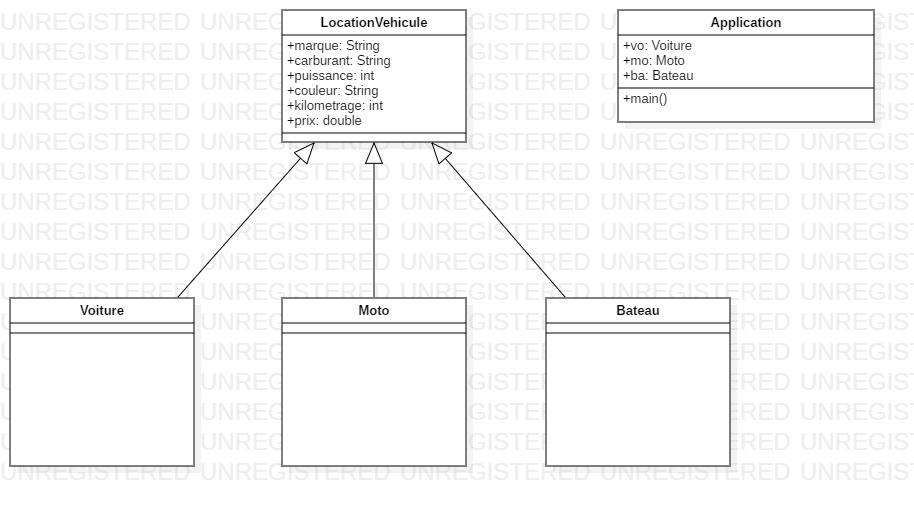
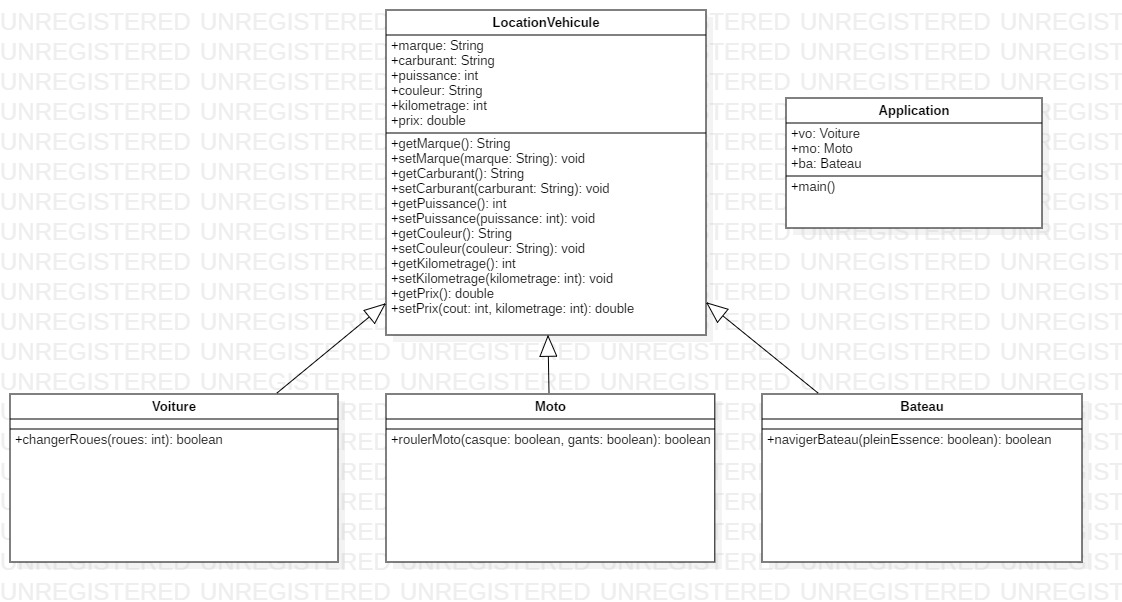
modifs des programmes java

diff --git a/src/Bateau.java b/src/Bateau.java
@@ -1,11 +1,11 @@
 
 public class Bateau extends LocationVehicule
 {
-	LocationVehicule loc = new LocationVehicule();
-
-    public double setMarque(double cout, int kilometrage)
-    {
-    	double prix = cout * kilometrage;
-    	return prix;
-    }
+	public boolean naviguerBateau(boolean pleinEssence)
+	{
+		if (pleinEssence)
+			return true;
+		
+		return false;
+	}
 }

diff --git a/src/Moto.java b/src/Moto.java
@@ -1,11 +1,11 @@
 
 public class Moto extends LocationVehicule 
 {
-	LocationVehicule loc = new LocationVehicule();
-	
-	public double setMarque(double cout, int kilometrage)
+	public boolean roulerMoto(boolean casque, boolean gants)
 	{
-		double prix = cout * kilometrage;
-		return prix;
+		if (casque && gants)
+			return true;
+					
+		return false;
 	}
 }

diff --git a/src/Voiture.java b/src/Voiture.java
@@ -1,11 +1,11 @@
 
 public class Voiture extends LocationVehicule
-{
-	LocationVehicule loc = new LocationVehicule();
-	
-	public double setMarque(double cout, int kilometrage)
+{	
+	public boolean changerRoues(int roues)
 	{
-		double prix = cout * kilometrage;
-		return prix;
+		if (roues > 0)
+			return true;
+		
+		return false;
 	}
 }
